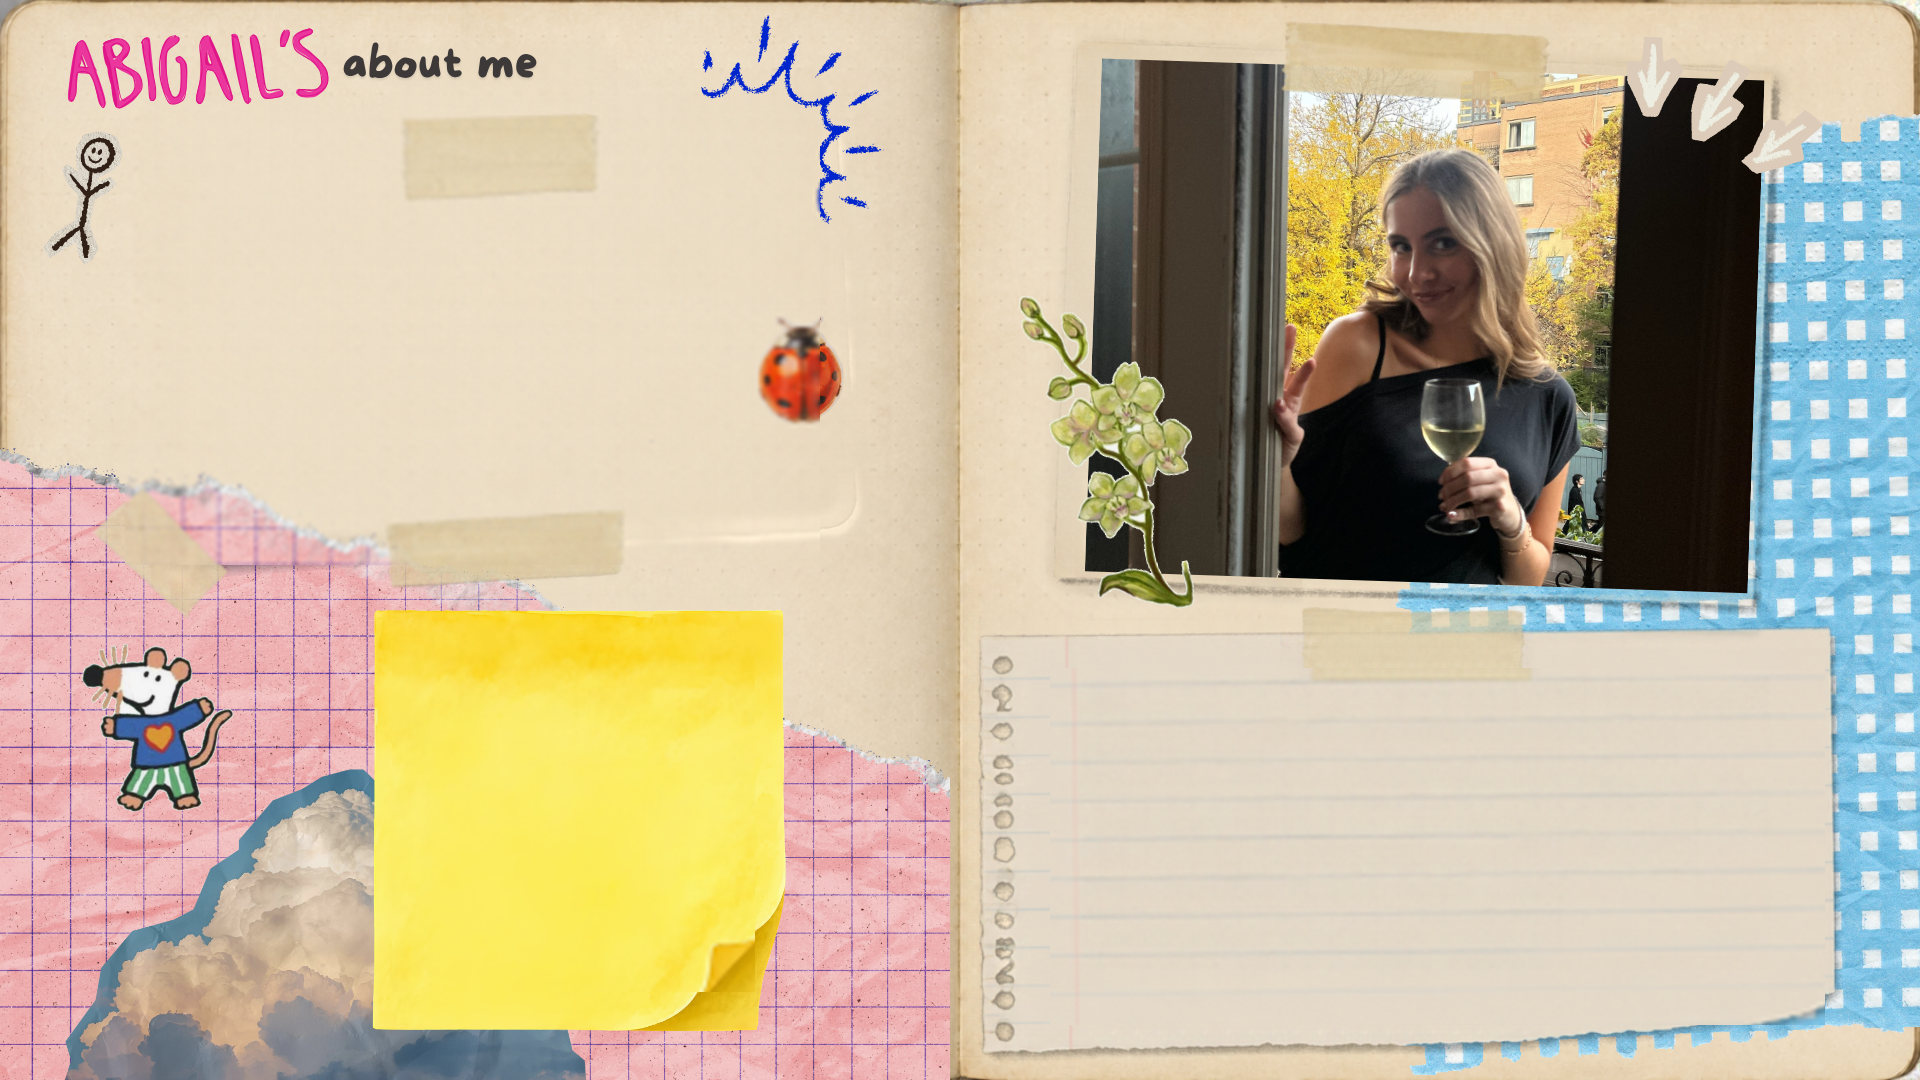
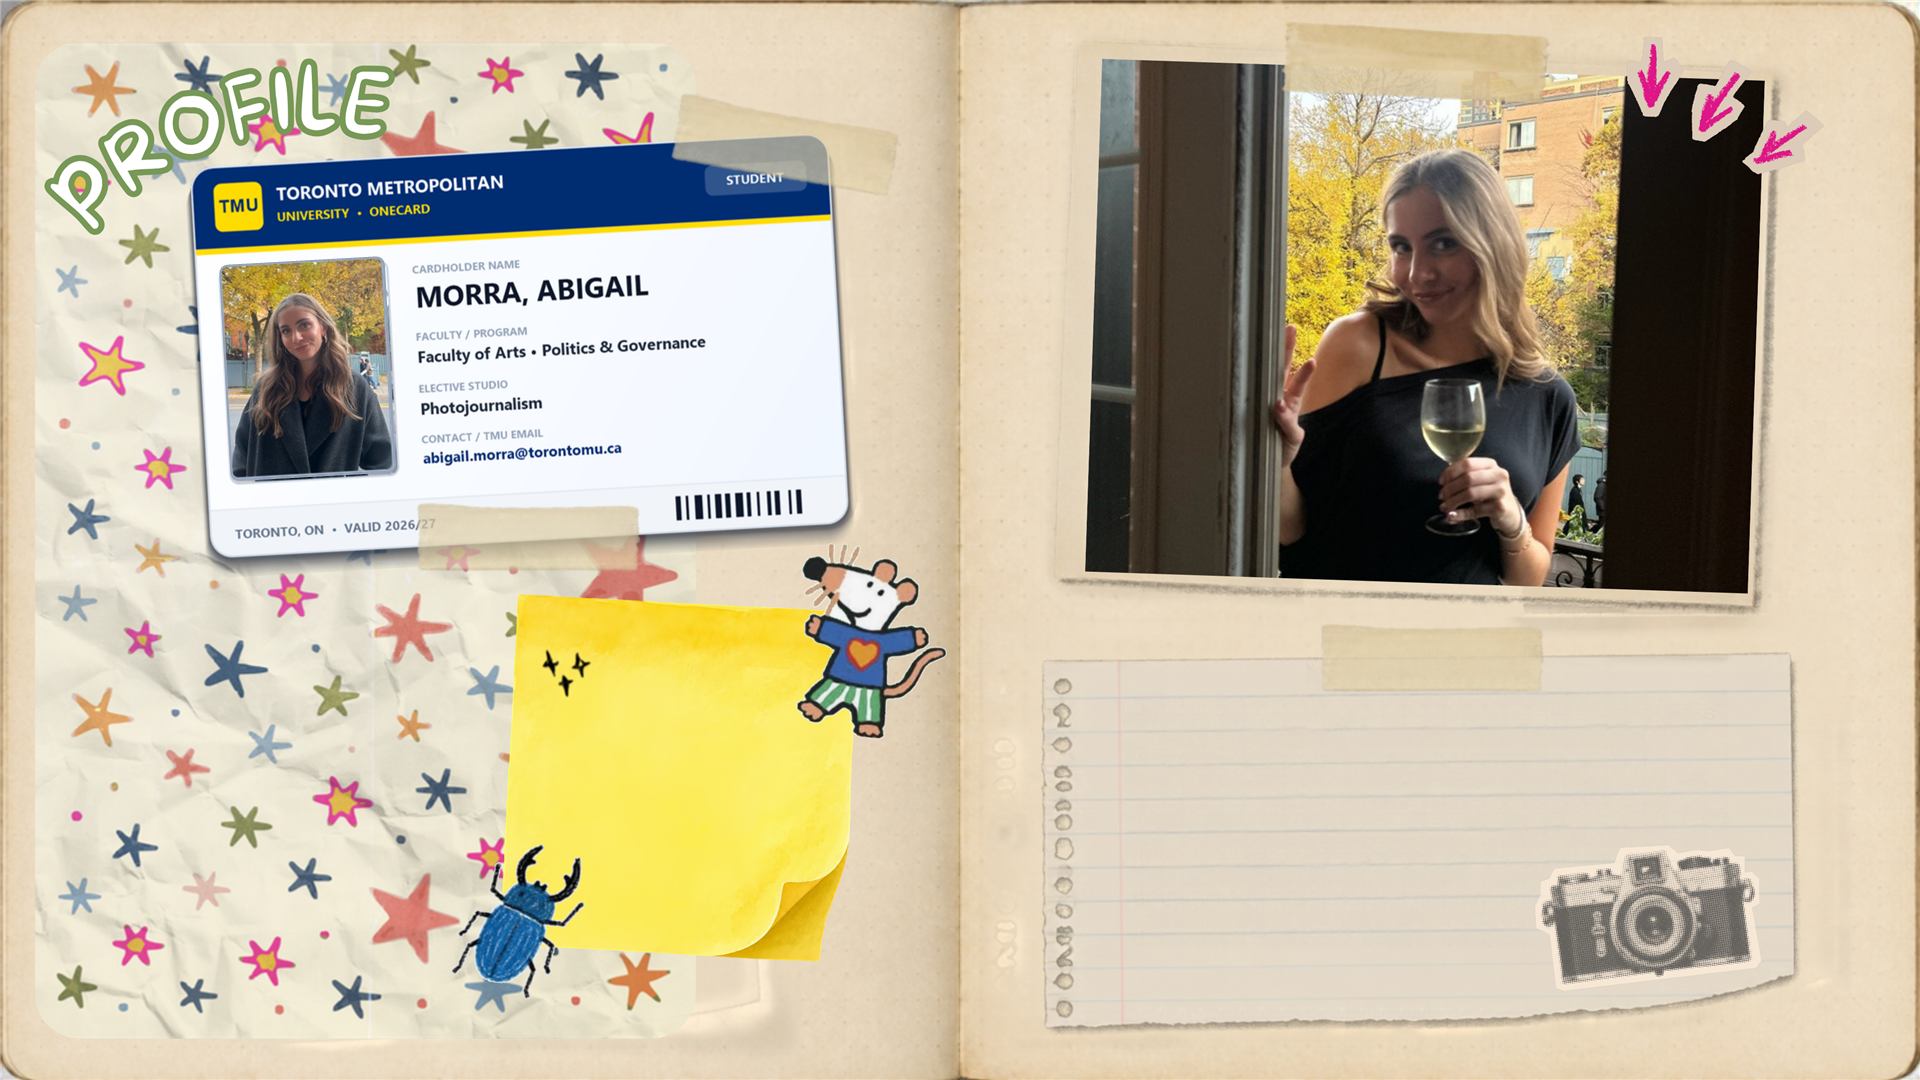
Update textured blue header, moved stickers, and all 3 Canva scrapbook spreads

diff --git a/index.html b/index.html
@@ -219,7 +219,7 @@
        ------------------------------------------------------------- */
     .hero-blue-canvas {
       background-color: #1800AD;
-      background-image: url("stickers/canva_blue_texture_bg.png");
+      background-image: url("stickers/canva_blue_texture_bg.png?v=3");
       background-size: cover;
       background-position: center;
       position: relative;
@@ -1579,57 +1579,64 @@
 
       <!-- 3. BIRTHDAY CAKE SLICE WITH CANDLE -->
       <div class="drag-item pointer-events-auto"
-           style="left: 20.87%; top: 7.52%; width: 15.50%; z-index: 22;"
+           style="left: 26.17%; top: 6.30%; width: 12.08%; z-index: 22;"
            title="Drag me! 🎂">
         <img src="stickers/canva_cake.png" alt="Birthday Cake Sticker" class="w-full h-auto block drop-shadow-lg pointer-events-none">
       </div>
 
       <!-- 4. TOP-CENTER SKETCHED BLACK STAR -->
       <div class="drag-item pointer-events-auto"
-           style="left: 39.01%; top: 12.79%; width: 9.20%; z-index: 21;"
+           style="left: 42.24%; top: 13.06%; width: 8.52%; z-index: 21;"
            title="Drag me! ★">
         <img src="stickers/canva_star.png" alt="Star Sticker" class="w-full h-auto block drop-shadow-md pointer-events-none">
       </div>
 
       <!-- 5. VINTAGE RANGEFINDER 35MM CAMERA -->
       <div class="drag-item pointer-events-auto"
-           style="left: 55.99%; top: 10.67%; width: 21.89%; z-index: 14;"
+           style="left: 56.15%; top: 7.04%; width: 21.43%; z-index: 14;"
            title="Drag me! 📷">
         <img src="stickers/canva_camera.png" alt="35mm Camera Sticker" class="w-full h-auto block drop-shadow-xl pointer-events-none">
       </div>
 
-      <!-- 6. LIT MATCHSTICK -->
+      <!-- 6. LIT MATCHSTICK (MOVED BETWEEN CAMERA, GILBERT & POLAROID) -->
       <div class="drag-item pointer-events-auto"
-           style="left: 76.88%; top: 3.87%; width: 5.20%; z-index: 22;"
+           style="left: 73.65%; top: 36.11%; width: 4.82%; z-index: 22;"
            title="Drag me! 🔥">
         <img src="stickers/canva_match.png" alt="Lit Match Sticker" class="w-full h-auto block drop-shadow-md pointer-events-none">
       </div>
 
       <!-- 7. RANSOM CUTOUT LETTERS "ABi" -->
       <div class="drag-item pointer-events-auto"
-           style="left: 82.69%; top: 11.86%; width: 8.50%; z-index: 22;"
+           style="left: 80.57%; top: 12.31%; width: 8.41%; z-index: 22;"
            title="Drag me! ✨">
         <img src="stickers/canva_abi.png" alt="ABi Cutout Letters" class="w-full h-auto block drop-shadow-md pointer-events-none">
       </div>
 
       <!-- 8. GILBERT THE CAT FULL-BODY CUTOUT (TAP TO MEET GILBERT, OR DRAG!) -->
       <div id="drag-gilbert" class="drag-item pointer-events-auto"
-           style="left: 77.20%; top: 21.50%; width: 20.50%; z-index: 24;"
+           style="left: 79.17%; top: 24.07%; width: 19.56%; z-index: 24;"
            title="Gilbert the Cat 🐾 (Drag to move, or tap to meet Gilbert!)">
         <img src="stickers/canva_gilbert_full.png" alt="Gilbert the Cat" class="w-full h-auto block drop-shadow-2xl pointer-events-none">
       </div>
 
-      <!-- 9. RIGHT BALCONY POLAROID PHOTO WITH RED HEART (CRISP HIGH-RES!) -->
+      <!-- 9. RIGHT BALCONY POLAROID PHOTO (CRISP HIGH-RES!) -->
       <div class="drag-item pointer-events-auto"
-           style="left: 65.50%; top: 47.40%; width: 15.20%; z-index: 23;"
+           style="left: 63.62%; top: 55.00%; width: 17.42%; z-index: 23;"
+           title="Drag me! 📸">
+        <img src="stickers/canva_polaroid_balcony_v2.png?v=3" alt="Balcony Polaroid Photo" class="w-full h-auto block drop-shadow-2xl pointer-events-none">
+      </div>
+
+      <!-- 9B. RED HEART CUTOUT STICKER NEXT TO BALCONY POLAROID -->
+      <div class="drag-item pointer-events-auto"
+           style="left: 79.64%; top: 79.58%; width: 4.95%; z-index: 24;"
            title="Drag me! ❤">
-        <img src="stickers/canva_polaroid_balcony_v2.png?v=2" alt="Balcony Polaroid Photo with Red Heart" class="w-full h-auto block drop-shadow-2xl pointer-events-none">
+        <img src="stickers/canva_red_heart.png?v=3" alt="Red Heart Sticker" class="w-full h-auto block drop-shadow-lg pointer-events-none">
       </div>
 
       <!-- 10. GREEN & ORANGE GECKO / LIZARD (CLICK TO PLAY GECKO SNAKE GAME!) -->
       <div id="drag-gecko" class="drag-item pointer-events-auto"
            data-sticker-src="stickers/canva_gecko.png"
-           style="left: 17.80%; top: 45.80%; width: 14.80%; z-index: 21;"
+           style="left: 17.97%; top: 45.37%; width: 14.17%; z-index: 21;"
            title="Green & Orange Gecko 🦎 (Click me to play Gecko Garden Snake! 🕹)">
         <img src="stickers/canva_gecko.png" alt="Gecko Sticker" class="w-full h-auto block drop-shadow-lg pointer-events-none">
       </div>
@@ -1650,7 +1657,7 @@
 
       <!-- 13. PEEKING HAND EYES FRAMER -->
       <div class="drag-item pointer-events-auto"
-           style="left: 28.00%; top: 72.60%; width: 7.20%; z-index: 23;"
+           style="left: 29.69%; top: 74.35%; width: 6.85%; z-index: 23;"
            title="Drag me! 👀">
         <img src="stickers/canva_hand_eyes.png" alt="Peeking Hand Eyes Sticker" class="w-full h-auto block drop-shadow-lg pointer-events-none">
       </div>
@@ -1952,21 +1959,15 @@
                (Clean background + High-Readability Student ID Card + Cute Handwritten Notes + Hover Jiggle!)
                ========================================================= -->
           <div id="zine-spread-0" class="zine-spread-panel relative w-full aspect-[16/9] select-none z-10">
-            <img src="photos/about me/canva_spread_1_bg.png"
+            <img src="photos/about me/canva_spread_1_bg.png?v=3"
                  alt="Abigail's About Me Scrapbook Spread 1"
                  class="w-full h-full object-contain block pointer-events-none">
 
-            <!-- HIGH-READABILITY TMU ONE CARD (JIGGLES ON HOVER + CLICKABLE PHOTO & EMAIL) -->
-            <div class="jiggle-on-hover absolute left-[7.2%] top-[12.2%] w-[35.1%] z-20 cursor-pointer"
-                 style="--base-rot: -4.2deg;"
+            <!-- TMU ONE CARD HOTSPOT (CLICK TO VIEW PORTRAIT OR EMAIL) -->
+            <div class="jiggle-on-hover absolute left-[9.5%] top-[12.6%] w-[35.1%] h-[39.4%] z-20 cursor-pointer rounded-[8px]"
+                 style="--base-rot: -3.1deg;"
                  onclick="openLightboxOnPhoto('photos/about me/abi_id_coat.jpg')"
                  title="TMU Student ID Card • Click to inspect portrait!">
-              <!-- Top-Left & Bottom-Right Masking Tape Strips -->
-              <div class="w-[26%] h-[11%] bg-[#f1e4c3]/90 border border-stone-400/40 shadow-sm absolute -top-[4%] -left-[5%] rotate-[-26deg] pointer-events-none z-30"></div>
-              <div class="w-[26%] h-[11%] bg-[#f1e4c3]/90 border border-stone-400/40 shadow-sm absolute -bottom-[3%] -right-[4%] rotate-[-28deg] pointer-events-none z-30"></div>
-              <img src="photos/about me/abigail_tmu_student_id.png?v=4"
-                   alt="Abigail Morra TMU Student OneCard"
-                   class="w-full h-auto block rounded-[8px] shadow-xl">
               <!-- Clickable Email Link Overlay on the Card -->
               <a href="mailto:abigail.morra@torontomu.ca"
                  onclick="event.stopPropagation()"
@@ -1974,21 +1975,19 @@
                  class="absolute left-[31%] top-[61%] w-[66%] h-[14%] z-30 rounded hover:bg-blue-500/10 transition-colors"></a>
             </div>
 
-            <!-- LADYBUG STICKER ON CORNER OF STUDENT CARD (JIGGLES ON HOVER!) -->
-            <div class="jiggle-on-hover absolute left-[39.1%] top-[28.8%] w-[4.8%] z-30 cursor-pointer"
-                 style="--base-rot: 8deg;"
-                 title="Lucky ladybug 🐞">
-              <img src="stickers/ladybug_sticker.png" alt="Ladybug Sticker" class="w-full h-auto block drop-shadow-md">
-            </div>
-
-            <!-- LITTLE WHITE MOUSE STICKER AT BOTTOM-LEFT (JIGGLES ON HOVER!) -->
-            <div class="jiggle-on-hover absolute left-[4.3%] top-[59.1%] w-[8.0%] h-[16.3%] z-25 cursor-pointer"
-                 style="--base-rot: -2deg;"
+            <!-- CUTE MOUSE ON STICKY NOTE CORNER (HOTSPOT) -->
+            <div class="jiggle-on-hover absolute left-[40.8%] top-[50.7%] w-[8.6%] h-[17.7%] z-30 cursor-pointer"
+                 style="--base-rot: 4deg;"
                  title="Squeak! 🐁"></div>
 
+            <!-- BLUE BEETLE AT BOTTOM-LEFT OF STICKY NOTE (HOTSPOT) -->
+            <div class="jiggle-on-hover absolute left-[23.4%] top-[77.6%] w-[7.1%] h-[15.1%] z-30 cursor-pointer"
+                 style="--base-rot: -6deg;"
+                 title="Blue beetle 🪲"></div>
+
             <!-- YELLOW STICKY NOTE (COMING SOON + JIGGLES ON HOVER!) -->
-            <div class="jiggle-on-hover absolute left-[20.3%] top-[59.2%] w-[19.0%] h-[32.5%] z-25 flex items-center justify-center px-[1.4%] py-[1%] cursor-default"
-                 style="--base-rot: -1.5deg;">
+            <div class="jiggle-on-hover absolute left-[26.4%] top-[55.7%] w-[18.0%] h-[32.7%] z-25 flex items-center justify-center px-[1.4%] py-[1%] cursor-default"
+                 style="--base-rot: 2.5deg;">
               <p class="font-handwriting text-stone-900 leading-none text-center"
                  style="font-size: clamp(14px, 2.2vw, 32px);">
                 coming soon ...
@@ -2016,7 +2015,7 @@
                (Clickable Polaroids + Hover Jiggle!)
                ========================================================= -->
           <div id="zine-spread-1" class="zine-spread-panel is-inactive-spread relative w-full aspect-[16/9] select-none z-10">
-            <img src="photos/about me/canva_spread_2.png"
+            <img src="photos/about me/canva_spread_2.png?v=3"
                  alt="Abigail's Scrapbook Spread 2"
                  class="w-full h-full object-contain block pointer-events-none">
 
@@ -2060,11 +2059,10 @@
                  style="--base-rot: 1.8deg;"
                  class="jiggle-on-hover absolute left-[55.5%] top-[9.5%] w-[36.2%] h-[78.5%] cursor-pointer z-20 rounded"></div>
 
-            <!-- GREEN CATERPILLAR STICKER AT BOTTOM-RIGHT (JIGGLES ON HOVER!) -->
+            <!-- GREEN CATERPILLAR STICKER AT BOTTOM-RIGHT (HOTSPOT) -->
             <div class="jiggle-on-hover absolute left-[78.1%] top-[79.4%] w-[19.1%] h-[16.3%] z-30 cursor-pointer"
                  style="--base-rot: -4deg;"
                  title="Wiggle caterpillar 🐛">
-              <img src="stickers/sb_caterpillar.png" alt="Green Caterpillar Sticker" class="w-full h-full object-contain drop-shadow-md">
             </div>
           </div>
 
@@ -2073,14 +2071,14 @@
                ("Coming Soon ..." Postcard & Notebook)
                ========================================================= -->
           <div id="zine-spread-2" class="zine-spread-panel is-inactive-spread relative w-full aspect-[16/9] select-none z-10">
-            <img src="photos/about me/canva_spread_3.png"
+            <img src="photos/about me/canva_spread_3.png?v=3"
                  alt="Abigail's Scrapbook Spread 3"
                  class="w-full h-full object-contain block pointer-events-none">
 
-            <!-- LEFT VINTAGE POSTCARD: "COMING SOON ..." -->
-            <div class="jiggle-on-hover absolute left-[9.2%] top-[8.2%] w-[31.8%] h-[82.5%] z-25 flex items-center justify-center p-[2.2%]"
-                 style="--base-rot: -1.5deg;">
-              <p class="font-handwriting text-stone-900 leading-none text-center -mt-[18%]"
+            <!-- LEFT HORIZONTAL VINTAGE POSTCARD: "COMING SOON ..." -->
+            <div class="jiggle-on-hover absolute left-[6.5%] top-[48.0%] w-[37.5%] h-[42.0%] z-25 flex items-center justify-center p-[2.2%]"
+                 style="--base-rot: -1.0deg;">
+              <p class="font-handwriting text-stone-900 leading-none text-center"
                  style="font-size: clamp(16px, 2.6vw, 38px);">
                 coming soon ...
               </p>
